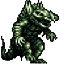
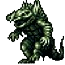
[FIX] inversed sprite

diff --git a/rtype_game/client/SpriteFactory.hpp b/rtype_game/client/SpriteFactory.hpp
@@ -45,7 +45,7 @@
                         case SPRITES::SIMPLE_MONSTER:
                             return std::make_tuple<float, float, float>(2.0f, 2.0f, 0.2f);
                         case SPRITES::ADVANCED_MONSTER:
-                            return std::make_tuple<float, float, float>(-2.0f, 2.0f, 0.2f);
+                            return std::make_tuple<float, float, float>(2.0f, 2.0f, 0.2f);
                         case SPRITES::OTHER_PLAYER_SHIP:
                             return std::make_tuple<float, float, float>(3.0f, 3.0f, 0.4f);
                         case SPRITES::PLAYER_SIMPLE_MISSILE:
@@ -71,7 +71,7 @@
                         case SPRITES::WIN_SCREEN:
                             return std::make_tuple<float, float, float>(0.5f, 0.5f, 0.35);
                         case SPRITES::SUPER_MONSTER:
-                            return std::make_tuple<float, float, float>(-2.0f, 2.0f, 0.35);
+                            return std::make_tuple<float, float, float>(2.0f, 2.0f, 0.35);
                         case SPRITES::MEGA_MONSTER:
                             return std::make_tuple<float, float, float>(4.0f, 4.0f, 0.35);
                         case SPRITES::BABY_PROJECTILE:
@@ -243,11 +243,6 @@
                             textures.push_back(loadTexture("assets/monsters/advanced_monster_frame7.png"));
                             textures.push_back(loadTexture("assets/monsters/advanced_monster_frame8.png"));
                             textures.push_back(loadTexture("assets/monsters/advanced_monster_frame9.png"));
-                            textures.push_back(loadTexture("assets/monsters/advanced_monster_frame10.png"));
-                            textures.push_back(loadTexture("assets/monsters/advanced_monster_frame11.png"));
-                            textures.push_back(loadTexture("assets/monsters/advanced_monster_frame12.png"));
-                            textures.push_back(loadTexture("assets/monsters/advanced_monster_frame13.png"));
-                            textures.push_back(loadTexture("assets/monsters/advanced_monster_frame14.png"));
                             break;
                         case SPRITES::SIMPLE_BOSS:
                             textures.push_back(loadTexture("SPRITE A DEFINIR"));
